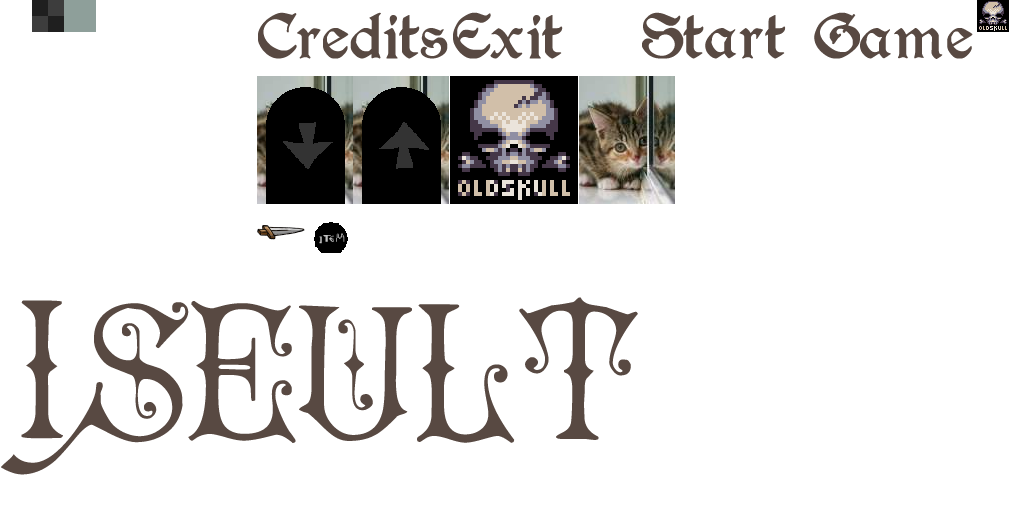
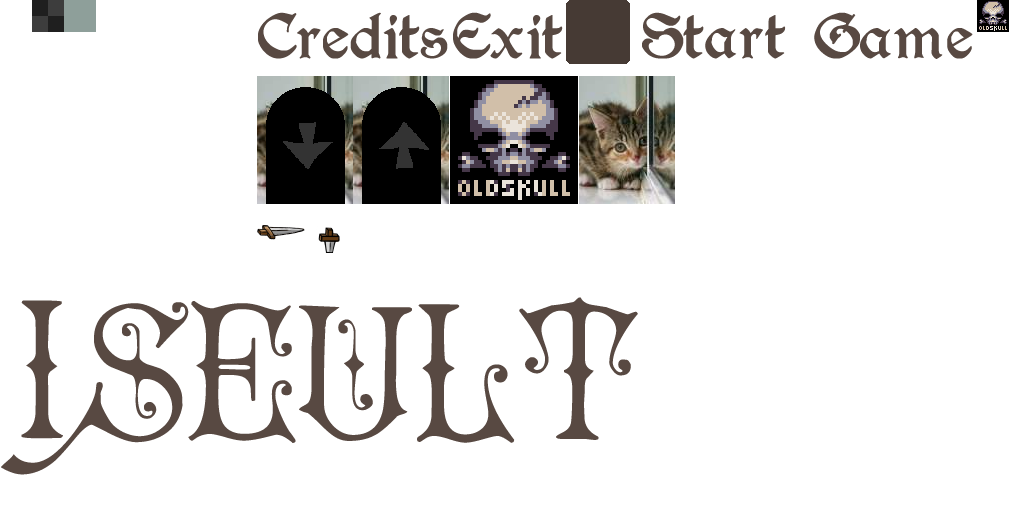
working on Collectibles

Changed region(s): [[0.5312, 0.0, 0.625, 0.125], [0.2812, 0.4375, 0.3438, 0.5]]

diff --git a/Iseult/Castle/GameLevel.cs b/Iseult/Castle/GameLevel.cs
@@ -35,7 +35,7 @@ namespace Iseult
                 Add(new DoorWay(new Vector2(e.AttrFloat("x"), e.AttrFloat("y")), e.AttrBool("Back"), e.AttrInt("uid"), e.Attr("GoTo")));
                 if (e.AttrInt("uid") == DoorUid && EntrySide==Side.Door)
                 {
-                    AddPlayer(e.AttrFloat("x") + Iseult.WIDTH/2, e.AttrFloat("y") + Iseult.HEIGHT/2);
+                    AddPlayer(e.AttrFloat("x") + IseultPlayer.WIDTH/2, e.AttrFloat("y") + IseultPlayer.HEIGHT/2);
                 }
             }
             else if (e.Name == "Stairs")
@@ -52,13 +52,13 @@ namespace Iseult
             }
             else if (e.Name == "Item")
             {
-                Add(new Equip(new Vector2(e.AttrFloat("x"), e.AttrFloat("y")), "knife"));
+                Add(new Collectible(new Vector2(e.AttrFloat("x"), e.AttrFloat("y")), "knife"));
             }
         }
 
         private void AddPlayer(float x, float y)
         {
-            Iseult player = new Iseult(new Vector2(x,y));
+            IseultPlayer player = new IseultPlayer(new Vector2(x,y));
             Add(player);
             CameraTarget = player;
             Camera.X = player.Position.X - Camera.Viewport.Bounds.Width / 2;

diff --git a/Iseult/Castle/IseultPlayer.cs b/Iseult/Castle/IseultPlayer.cs
@@ -9,13 +9,14 @@ using OldSkull;
 
 namespace Iseult
 {
-    public class Iseult : PlayerObject
+    public class IseultPlayer : PlayerObject
     {
         private DoorWay SelectedDoor;
         public static int HEIGHT = 128;
         public static int WIDTH = 128;
         private Sprite<string> imageLeft;
-        public Iseult(Vector2 Position)
+        private Collectible SelectedItem;
+        public IseultPlayer(Vector2 Position)
             : base(Position, new Vector2(48, 90),"iseult")
         {
             MaxSpeed.X = 6.3f;
@@ -34,6 +35,12 @@ namespace Iseult
             if (SelectedDoor != null)
             {
                 SelectedDoor.OnTouched(this);
+            }
+
+            SelectedItem = (Collectible)Level.CollideFirst(Collider.Bounds, GameTags.Item);
+            if (SelectedItem != null)
+            {
+                SelectedItem.OnTouched(this);
             }
         }
 
@@ -55,7 +62,6 @@ namespace Iseult
             }
         }
 
-        
         protected override void OnChangeSides(int newSide)
         {
             side = newSide;

diff --git a/Iseult/Castle/Collectible.cs b/Iseult/Castle/Collectible.cs
@@ -8,15 +8,33 @@ using Monocle;
 
 namespace Iseult
 {
-    public class Equip:PlatformerObject
+    public class Collectible:PlatformerObject
     {
-        public Equip(Vector2 Position,string ImageName)
+        private int Selected=0;
+        public Collectible(Vector2 Position,string ImageName)
             : base(Position, new Vector2(32, 32))
         {
             image = IseultGame.SpriteData.GetSpriteString("item");
             ((Sprite<string>)image).Play(ImageName);
             Add(image);
+
+            Tag(GameTags.Item);
         }
 
+        public override void Update()
+        {
+            base.Update();
+            Selected--;
+            if (Selected == 0) Tween.Scale(image, new Vector2(1, 1), 15, Ease.BackOut);
+        }
+
+        internal void OnTouched(IseultPlayer iseultPlayer)
+        {
+            if (Selected<=0)
+            {
+                Tween.Scale(image, new Vector2(1.2f, 1.2f), 15, Ease.BackOut);
+            }
+            Selected = 2;
+        }
     }
 }

diff --git a/Iseult/Castle/DoorWay.cs b/Iseult/Castle/DoorWay.cs
@@ -59,7 +59,7 @@ namespace Iseult
             }
         }
 
-        internal void OnTouched(Iseult Player)
+        internal void OnTouched(IseultPlayer Player)
         {
             if (interacting<=0)
             {
